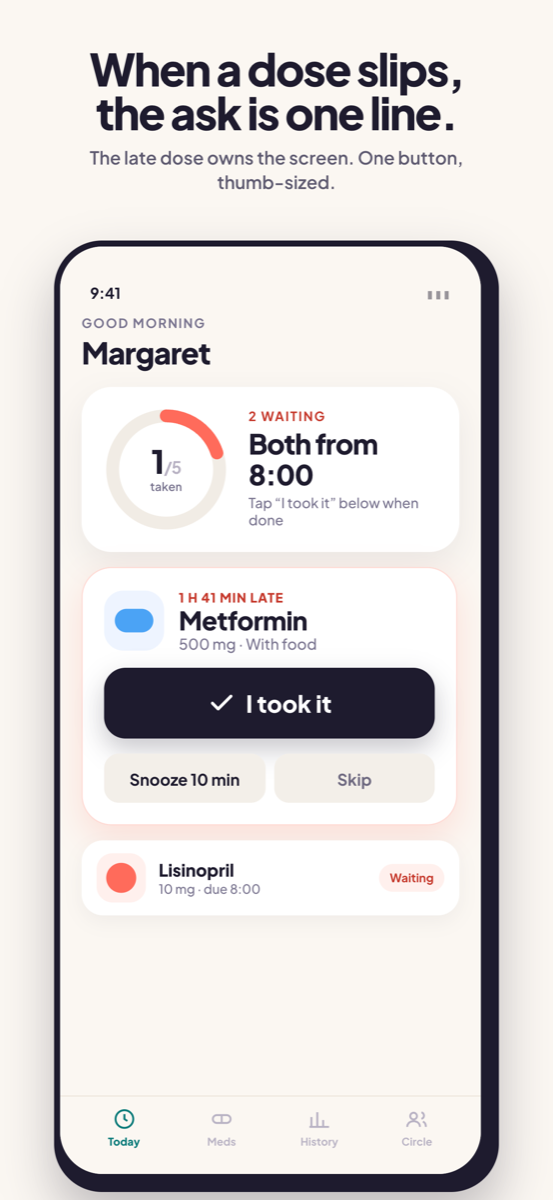
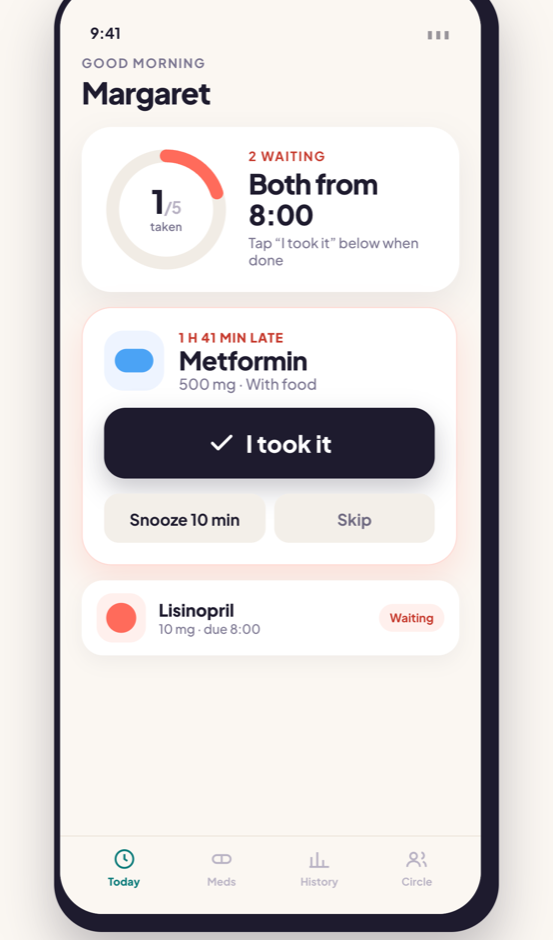
Crop baked App Store headlines off the four hero shots; round corners
The uncropped screenshots have their own baked-in marketing headline
("Her whole day, in one ring" etc.) which competed with the hero
headline on landing — two headlines fighting side by side, and the
paper rectangle around each shot had a hard edge against the teal
hero background that read as "pasted on."

Fix: crop the top 260px off each composed screenshot, which removes
the baked headline + sub + the "down." tail that leaked through at a
smaller crop. Also round the hero-device corners to 28px and swap
drop-shadow() filter for box-shadow (crisper against the teal).

- today / late-dose / circle / caregiver all re-generated at 553x940
  (was 553x1200 with 260px of headline on top).
- Hero image now reads as a soft rounded card floating in from the
  teal, not a hard-edged banner clipping.

Changed region(s): [[0.0615, 0.0, 0.9222, 0.7713], [0.0922, 0.8947, 0.9222, 1.0], [0.7993, 0.3394, 0.83, 0.4319]]

diff --git a/style.css b/style.css
@@ -144,10 +144,13 @@ a:hover { text-decoration: underline; }
     padding-top: 40px;
 }
 .hero-device img {
-    max-width: 360px;
+    max-width: 340px;
     width: 100%;
     display: block;
-    filter: drop-shadow(0 24px 40px rgba(0,0,0,0.18));
+    border-radius: 28px;
+    box-shadow:
+        0 24px 48px rgba(0,0,0,0.22),
+        0 2px 6px rgba(0,0,0,0.08);
     transform: translateY(40px);
 }
 
